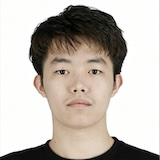
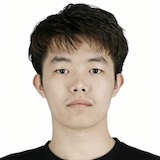
team

diff --git a/team/_posts/2026-08-05-tianzuo-wang.md b/team/_posts/2026-08-05-tianzuo-wang.md
@@ -3,11 +3,11 @@ layout: member
 title: Tianzuo Wang
 position: PhD Student
 handle: tianzuowang
-#github: 
+github: tianzuowang93
 #scholar: 
 image: /images/team/tianzuo-wang.jpg
 email: twang628@connect.hkust-gz.edu.cn
-#orcid: 
+orcid: 0009-0001-3456-6921
 alumni: false
 ---
 
